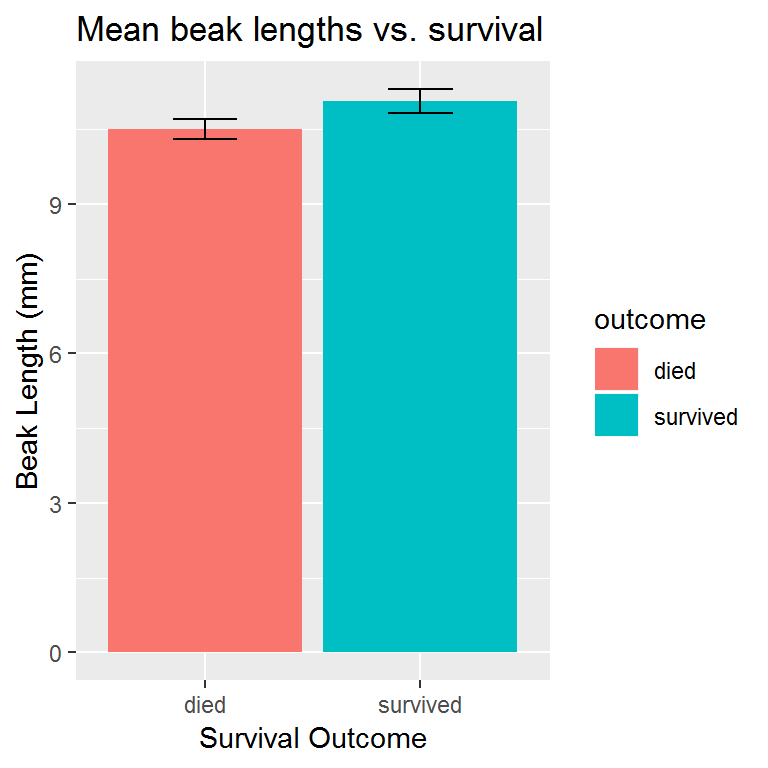
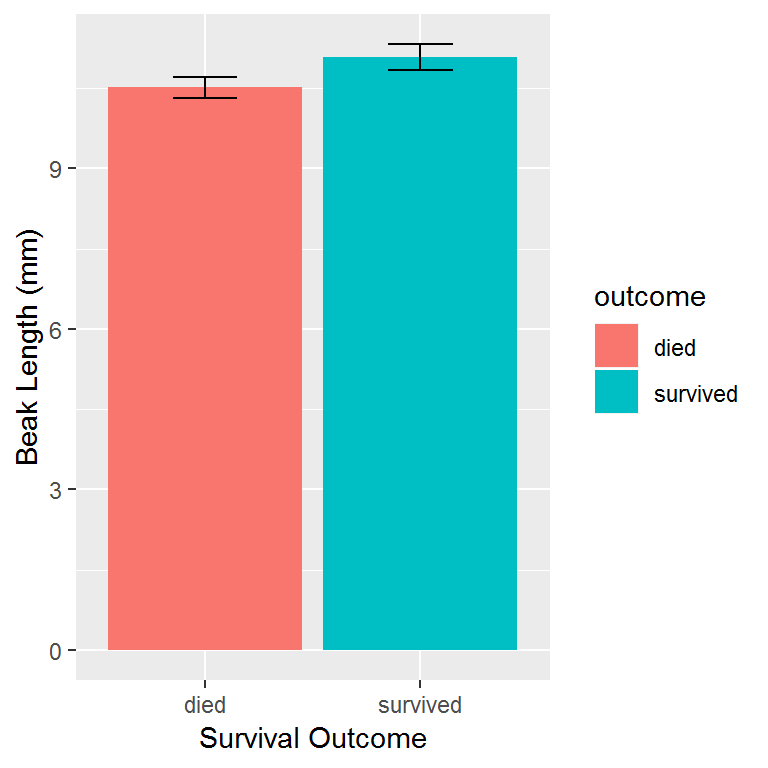
Remove figure titles

diff --git a/lab1_3_finch.html b/lab1_3_finch.html
@@ -335,12 +335,12 @@ Did beak length vary between birds that survived the drough and those that did n
 <div class="sourceCode" id="cb2"><pre class="sourceCode r"><code class="sourceCode r"><a class="sourceLine" id="cb2-1" data-line-number="1"><span class="kw">library</span>(readxl)                <span class="co"># load readxl, for reading Excel files</span></a>
 <a class="sourceLine" id="cb2-2" data-line-number="2"><span class="kw">library</span>(tidyverse)             <span class="co"># load tidyverse, for working with datasets</span></a></code></pre></div>
 <pre><code>## Warning: package &#39;tidyverse&#39; was built under R version 3.5.1</code></pre>
-<pre><code>## -- Attaching packages ------------------------------------------------------- tidyverse 1.2.1 --</code></pre>
+<pre><code>## -- Attaching packages ------------------------------------- tidyverse 1.2.1 --</code></pre>
 <pre><code>## v ggplot2 2.2.1.9000     v purrr   0.2.5     
 ## v tibble  1.4.2          v dplyr   0.7.5     
 ## v tidyr   0.8.1          v stringr 1.3.1     
 ## v readr   1.1.1          v forcats 0.3.0</code></pre>
-<pre><code>## -- Conflicts ---------------------------------------------------------- tidyverse_conflicts() --
+<pre><code>## -- Conflicts ---------------------------------------- tidyverse_conflicts() --
 ## x dplyr::filter() masks stats::filter()
 ## x dplyr::lag()    masks stats::lag()</code></pre>
 <p>Put your cursor on the first line and type Cmd+Enter to run it. The cursor automatically moves to the next line, so you can type Cmd+Enter again to run the next line.</p>
@@ -408,7 +408,7 @@ Did beak length vary between birds that survived the drough and those that did n
 <a class="sourceLine" id="cb13-5" data-line-number="5"><span class="st">  </span><span class="kw">geom_histogram</span>(<span class="dt">bins =</span> <span class="dv">14</span>) <span class="op">+</span></a>
 <a class="sourceLine" id="cb13-6" data-line-number="6"><span class="st">  </span><span class="kw">facet_wrap</span>(<span class="op">~</span><span class="st"> </span>outcome, <span class="dt">ncol =</span> <span class="dv">1</span>)</a></code></pre></div>
 <p><img src="lab1_3_finch_files/figure-html/grouped-histogram-1.png" width="672" /></p>
-<p>The last thing you might want to do is spruce up your plot with a title and better axis labels. This is done with the <code>labs()</code> function:</p>
+<p>The last thing you might want to do is spruce up your plot with better axis labels. This is done with the <code>labs()</code> function:</p>
 <div class="sourceCode" id="cb14"><pre class="sourceCode r"><code class="sourceCode r"><a class="sourceLine" id="cb14-1" data-line-number="1"><span class="kw">ggplot</span>(</a>
 <a class="sourceLine" id="cb14-2" data-line-number="2">  <span class="dt">data =</span> finches, </a>
 <a class="sourceLine" id="cb14-3" data-line-number="3">  <span class="dt">mapping =</span> <span class="kw">aes</span>(<span class="dt">x =</span> beak_length, <span class="dt">fill =</span> outcome)</a>
@@ -417,9 +417,8 @@ Did beak length vary between birds that survived the drough and those that did n
 <a class="sourceLine" id="cb14-6" data-line-number="6"><span class="st">  </span><span class="kw">facet_wrap</span>(<span class="op">~</span><span class="st"> </span>outcome, <span class="dt">ncol =</span> <span class="dv">1</span>) <span class="op">+</span></a>
 <a class="sourceLine" id="cb14-7" data-line-number="7"><span class="st">  </span><span class="kw">labs</span>(</a>
 <a class="sourceLine" id="cb14-8" data-line-number="8">    <span class="dt">x =</span> <span class="st">&quot;Beak Length (mm)&quot;</span>,</a>
-<a class="sourceLine" id="cb14-9" data-line-number="9">    <span class="dt">y =</span> <span class="st">&quot;Number of Birds&quot;</span>,</a>
-<a class="sourceLine" id="cb14-10" data-line-number="10">    <span class="dt">title =</span> <span class="st">&quot;Beak length vs. drought survival&quot;</span></a>
-<a class="sourceLine" id="cb14-11" data-line-number="11">  )</a></code></pre></div>
+<a class="sourceLine" id="cb14-9" data-line-number="9">    <span class="dt">y =</span> <span class="st">&quot;Number of Birds&quot;</span></a>
+<a class="sourceLine" id="cb14-10" data-line-number="10">  )</a></code></pre></div>
 <p><img src="lab1_3_finch_files/figure-html/grouped-histogram-labels-1.png" width="672" /></p>
 <div id="export-your-figure" class="section level4">
 <h4>Export your figure</h4>
@@ -492,9 +491,8 @@ Did beak length vary between birds that survived the drough and those that did n
 <a class="sourceLine" id="cb22-6" data-line-number="6"><span class="st">  </span><span class="kw">geom_errorbar</span>(<span class="kw">aes</span>(<span class="dt">ymin =</span> lower, <span class="dt">ymax =</span> upper), <span class="dt">width =</span> <span class="fl">.3</span>) <span class="op">+</span></a>
 <a class="sourceLine" id="cb22-7" data-line-number="7"><span class="st">  </span><span class="kw">labs</span>(</a>
 <a class="sourceLine" id="cb22-8" data-line-number="8">    <span class="dt">x =</span> <span class="st">&quot;Survival Outcome&quot;</span>,</a>
-<a class="sourceLine" id="cb22-9" data-line-number="9">    <span class="dt">y =</span> <span class="st">&quot;Beak Length (mm)&quot;</span>,</a>
-<a class="sourceLine" id="cb22-10" data-line-number="10">    <span class="dt">title =</span> <span class="st">&quot;Mean beak lengths vs. survival&quot;</span></a>
-<a class="sourceLine" id="cb22-11" data-line-number="11">  )</a></code></pre></div>
+<a class="sourceLine" id="cb22-9" data-line-number="9">    <span class="dt">y =</span> <span class="st">&quot;Beak Length (mm)&quot;</span></a>
+<a class="sourceLine" id="cb22-10" data-line-number="10">  )</a></code></pre></div>
 <p><img src="lab1_3_finch_files/figure-html/bar-chart-1.png" width="384" /></p>
 <div id="export-your-figure-1" class="section level4">
 <h4>Export your figure</h4>
